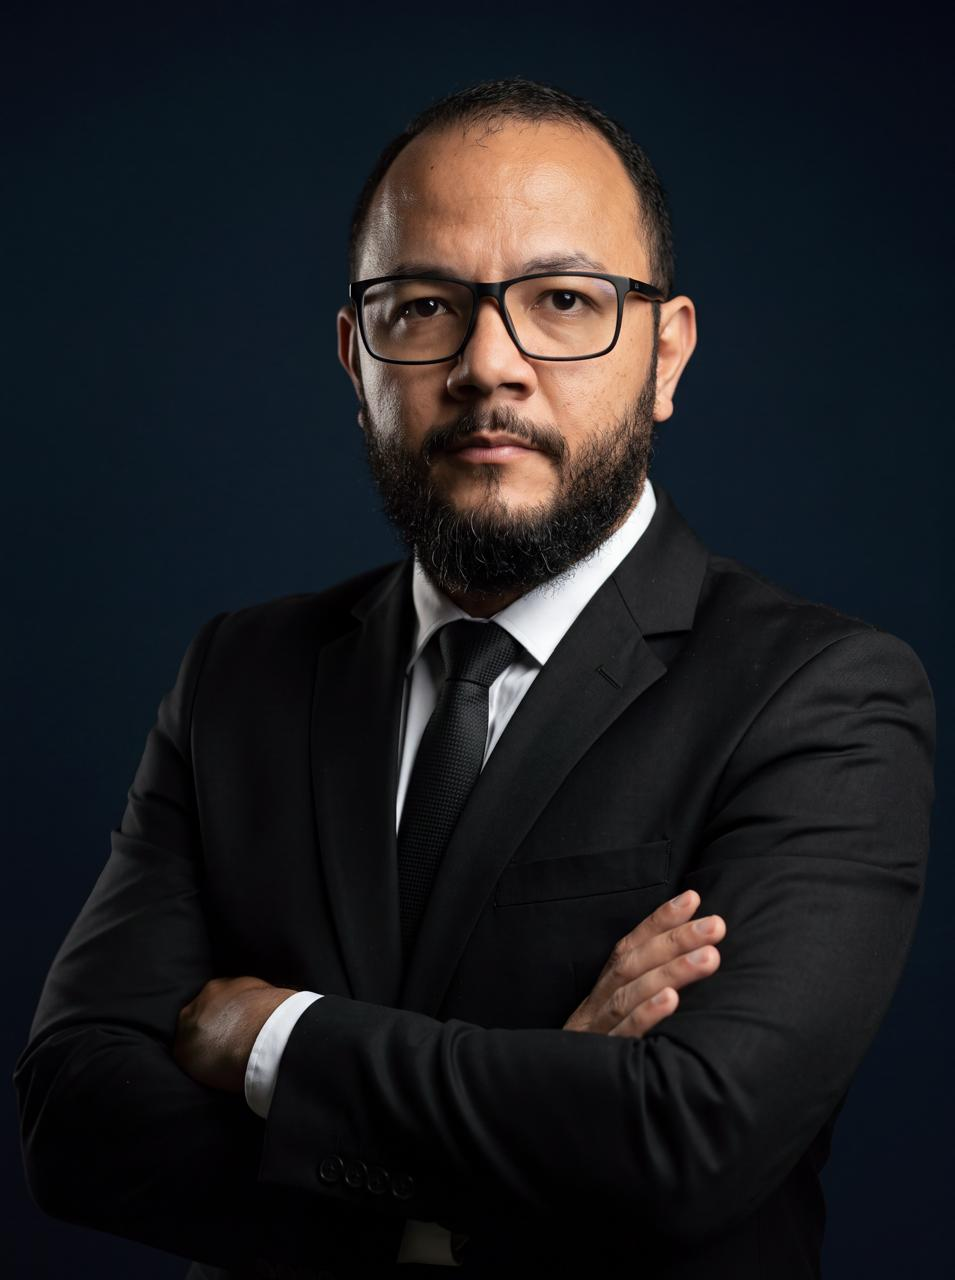
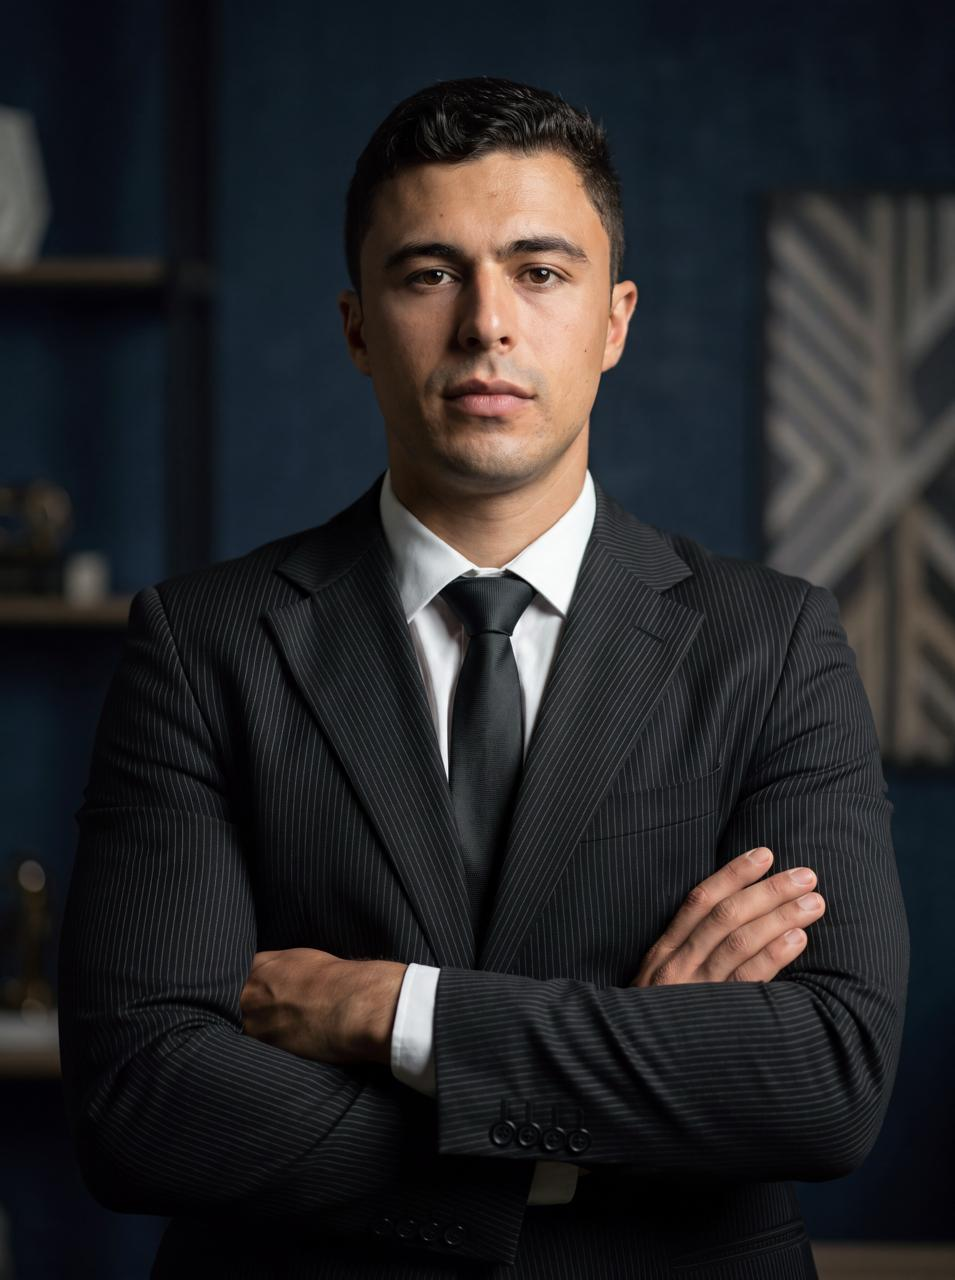
Corrige a troca de rostos dos socios e poe o delegado primeiro na campanha
- dr-walter-ruiz.jpg passa a ser o rosto do delegado (terno risca de giz) e dr-diego-souza.jpg o de oculos. Conserta o nome sob cada rosto nas duas paginas.
- guarda-maraba: Dr. Walter (delegado) primeiro, nas fotos e no texto
- Remove a frase "Um delegado em atividade e um ex guarda municipal" acima das fotos

diff --git a/automacao/landing/guarda-maraba.html b/automacao/landing/guarda-maraba.html
@@ -336,18 +336,16 @@ footer .fwrap{display:flex;flex-direction:column;gap:9px}
   <div class="wrap">
     <div class="prof">
       <div class="eyebrow" style="color:var(--ouro-claro)">Quem ensina</div>
-      <h2>Um delegado em atividade e um ex guarda municipal</h2>
       <div class="prof-fotos">
-        <figure>
-          <img src="marca/dr-diego-souza.jpg" alt="Foto do Dr. Diego Souza" width="480" height="640" loading="lazy">
-          <figcaption>Dr. Diego Souza</figcaption>
-        </figure>
         <figure>
           <img src="marca/dr-walter-ruiz.jpg" alt="Foto do Dr. Walter Ruiz" width="480" height="640" loading="lazy">
           <figcaption>Dr. Walter Ruiz</figcaption>
         </figure>
+        <figure>
+          <img src="marca/dr-diego-souza.jpg" alt="Foto do Dr. Diego Souza" width="480" height="640" loading="lazy">
+          <figcaption>Dr. Diego Souza</figcaption>
+        </figure>
       </div>
-      <p style="max-width:58ch"><strong>Dr. Diego Souza</strong> é advogado, professor de Direito e já vestiu a farda que você quer vestir: serviu na Guarda Municipal. Ele sabe o que a prova cobra e sabe o que o cargo exige depois dela, que são coisas diferentes e quase ninguém ensina as duas.</p>
       <p style="max-width:58ch"><strong>Dr. Walter Ruiz</strong> é delegado de polícia em atividade. Das 15 questões de Direito, 9 são de Penal, Processo Penal e Legislação Extravagante: inquérito, flagrante, cadeia de custódia, busca e apreensão, Lei de Drogas, Maria da Penha, Abuso de Autoridade, Estatuto do Desarmamento, ECA. Não é matéria decorada de apostila, é o expediente de quem lavra o auto.</p>
       <div>
         <p style="font-size:13.5px;color:#9FB6CB;margin-bottom:8px">Concursos em que o Dr. Walter foi aprovado:</p>
@@ -360,6 +358,7 @@ footer .fwrap{display:flex;flex-direction:column;gap:9px}
           <span>Agente Administrativo — Pref. S. J. Rio Preto</span>
         </div>
       </div>
+      <p style="max-width:58ch"><strong>Dr. Diego Souza</strong> é advogado, professor de Direito e já vestiu a farda que você quer vestir: serviu na Guarda Municipal. Ele sabe o que a prova cobra e sabe o que o cargo exige depois dela, que são coisas diferentes e quase ninguém ensina as duas.</p>
       <p style="max-width:58ch">E mais: os 20 pontos de Conhecimentos de Marabá — bairros, hidrografia, história, patrimônio — e as 5 leis municipais da Guarda. Nenhuma plataforma nacional produz esse material, porque não compensa fazer para uma cidade só. Nós somos daqui.</p>
     </div>
   </div>
